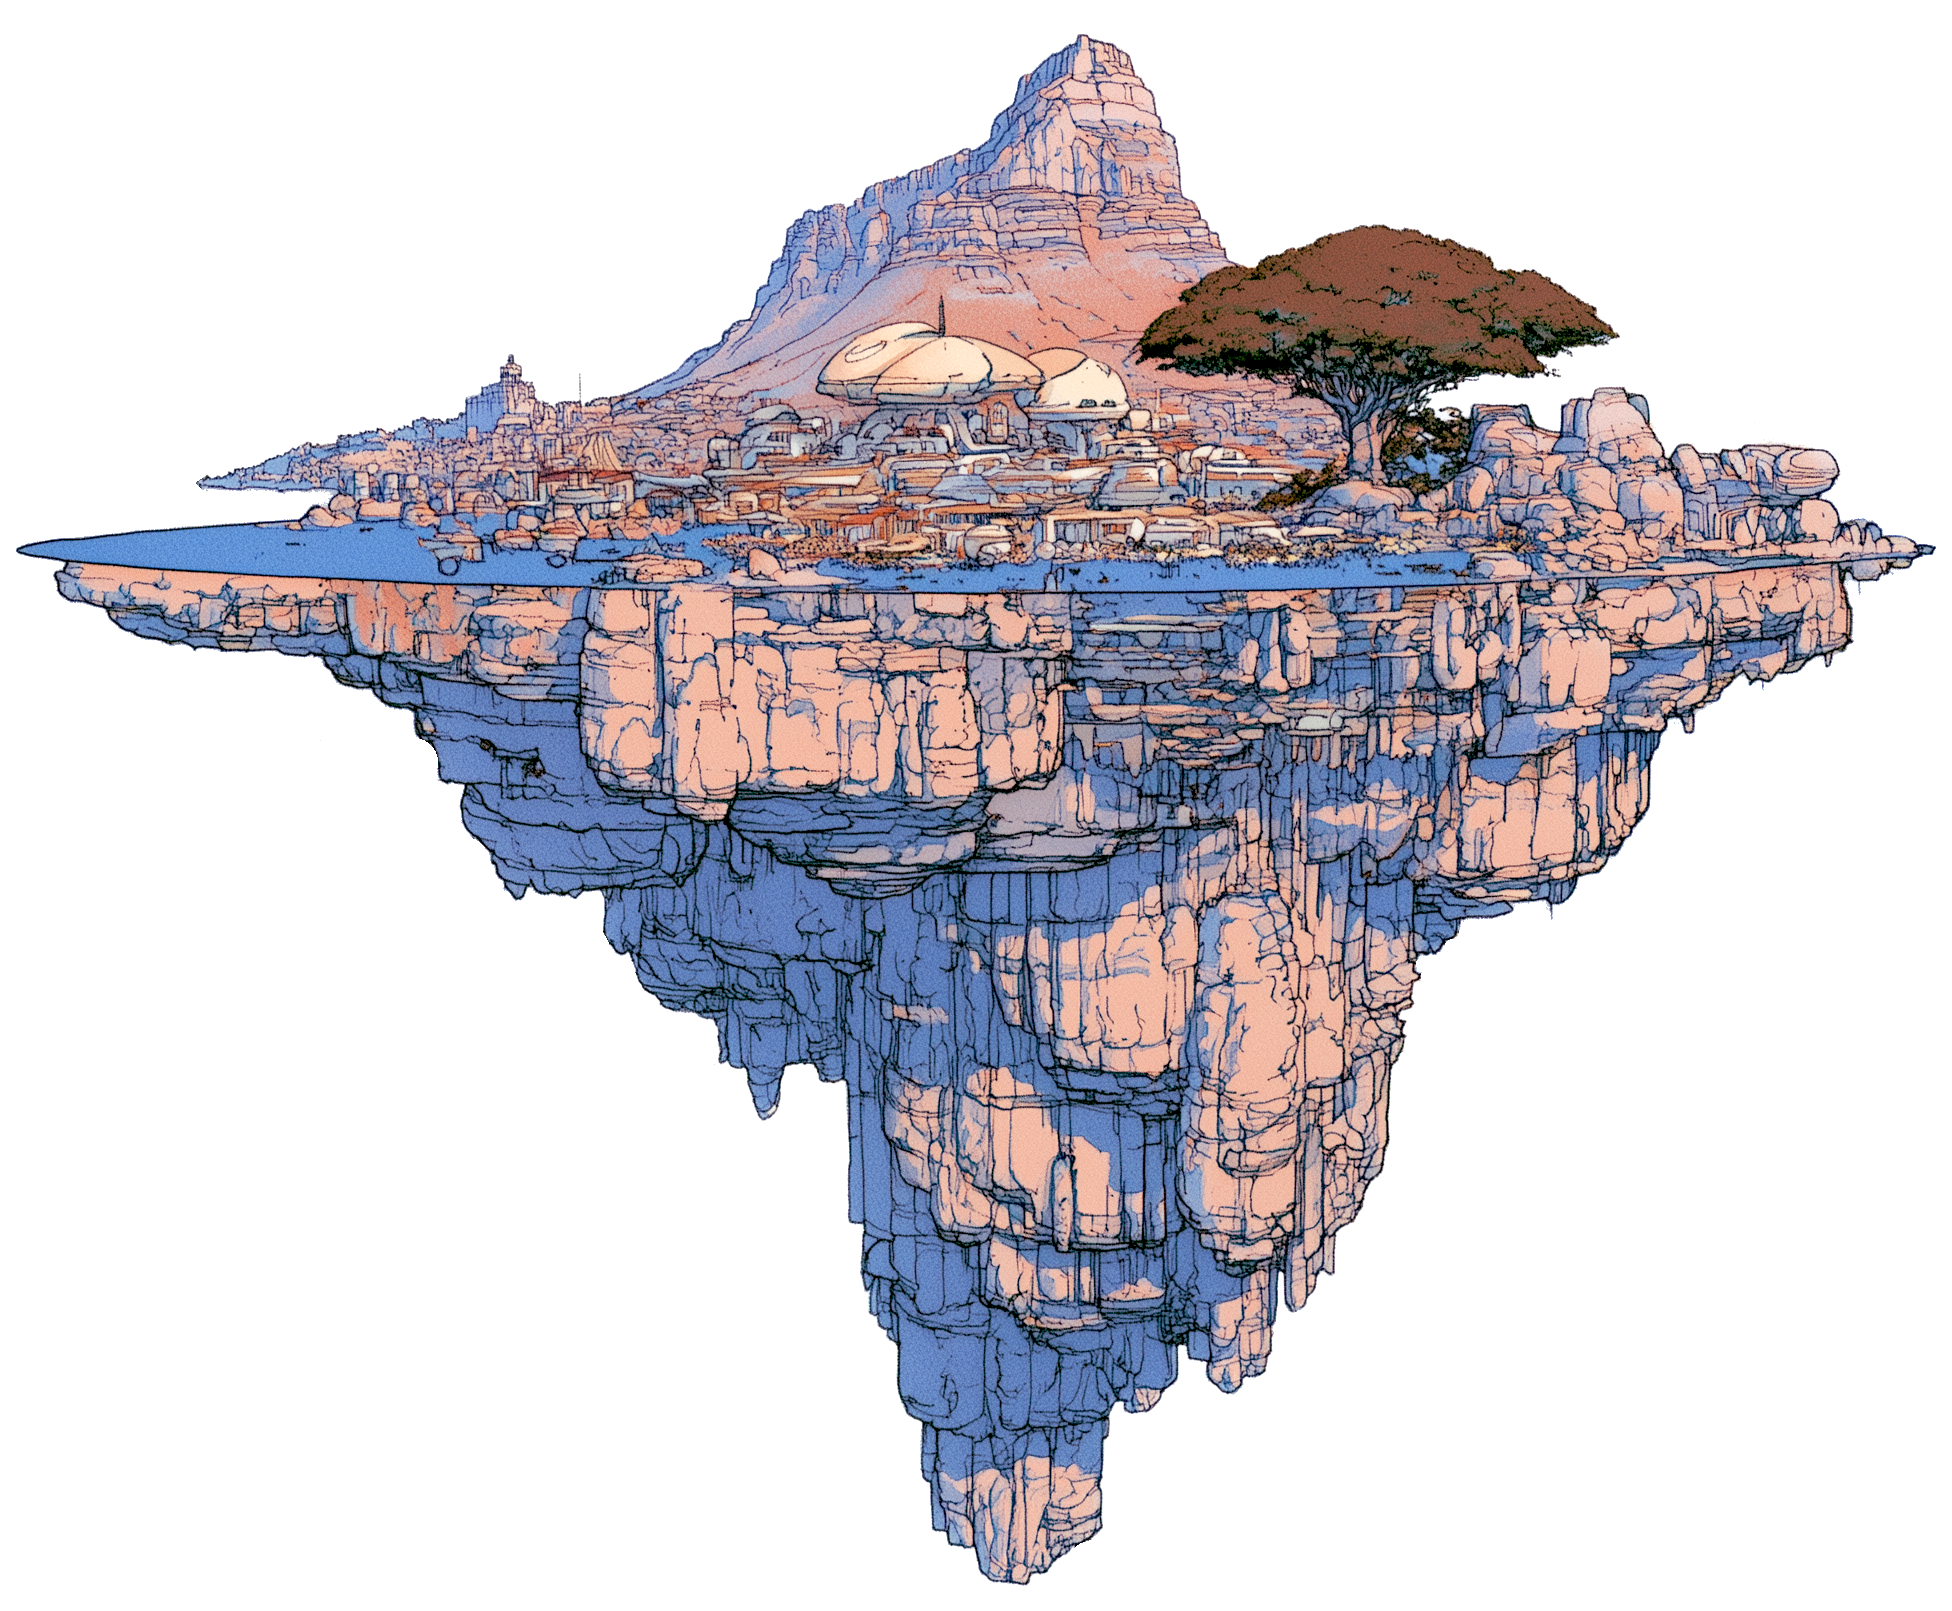
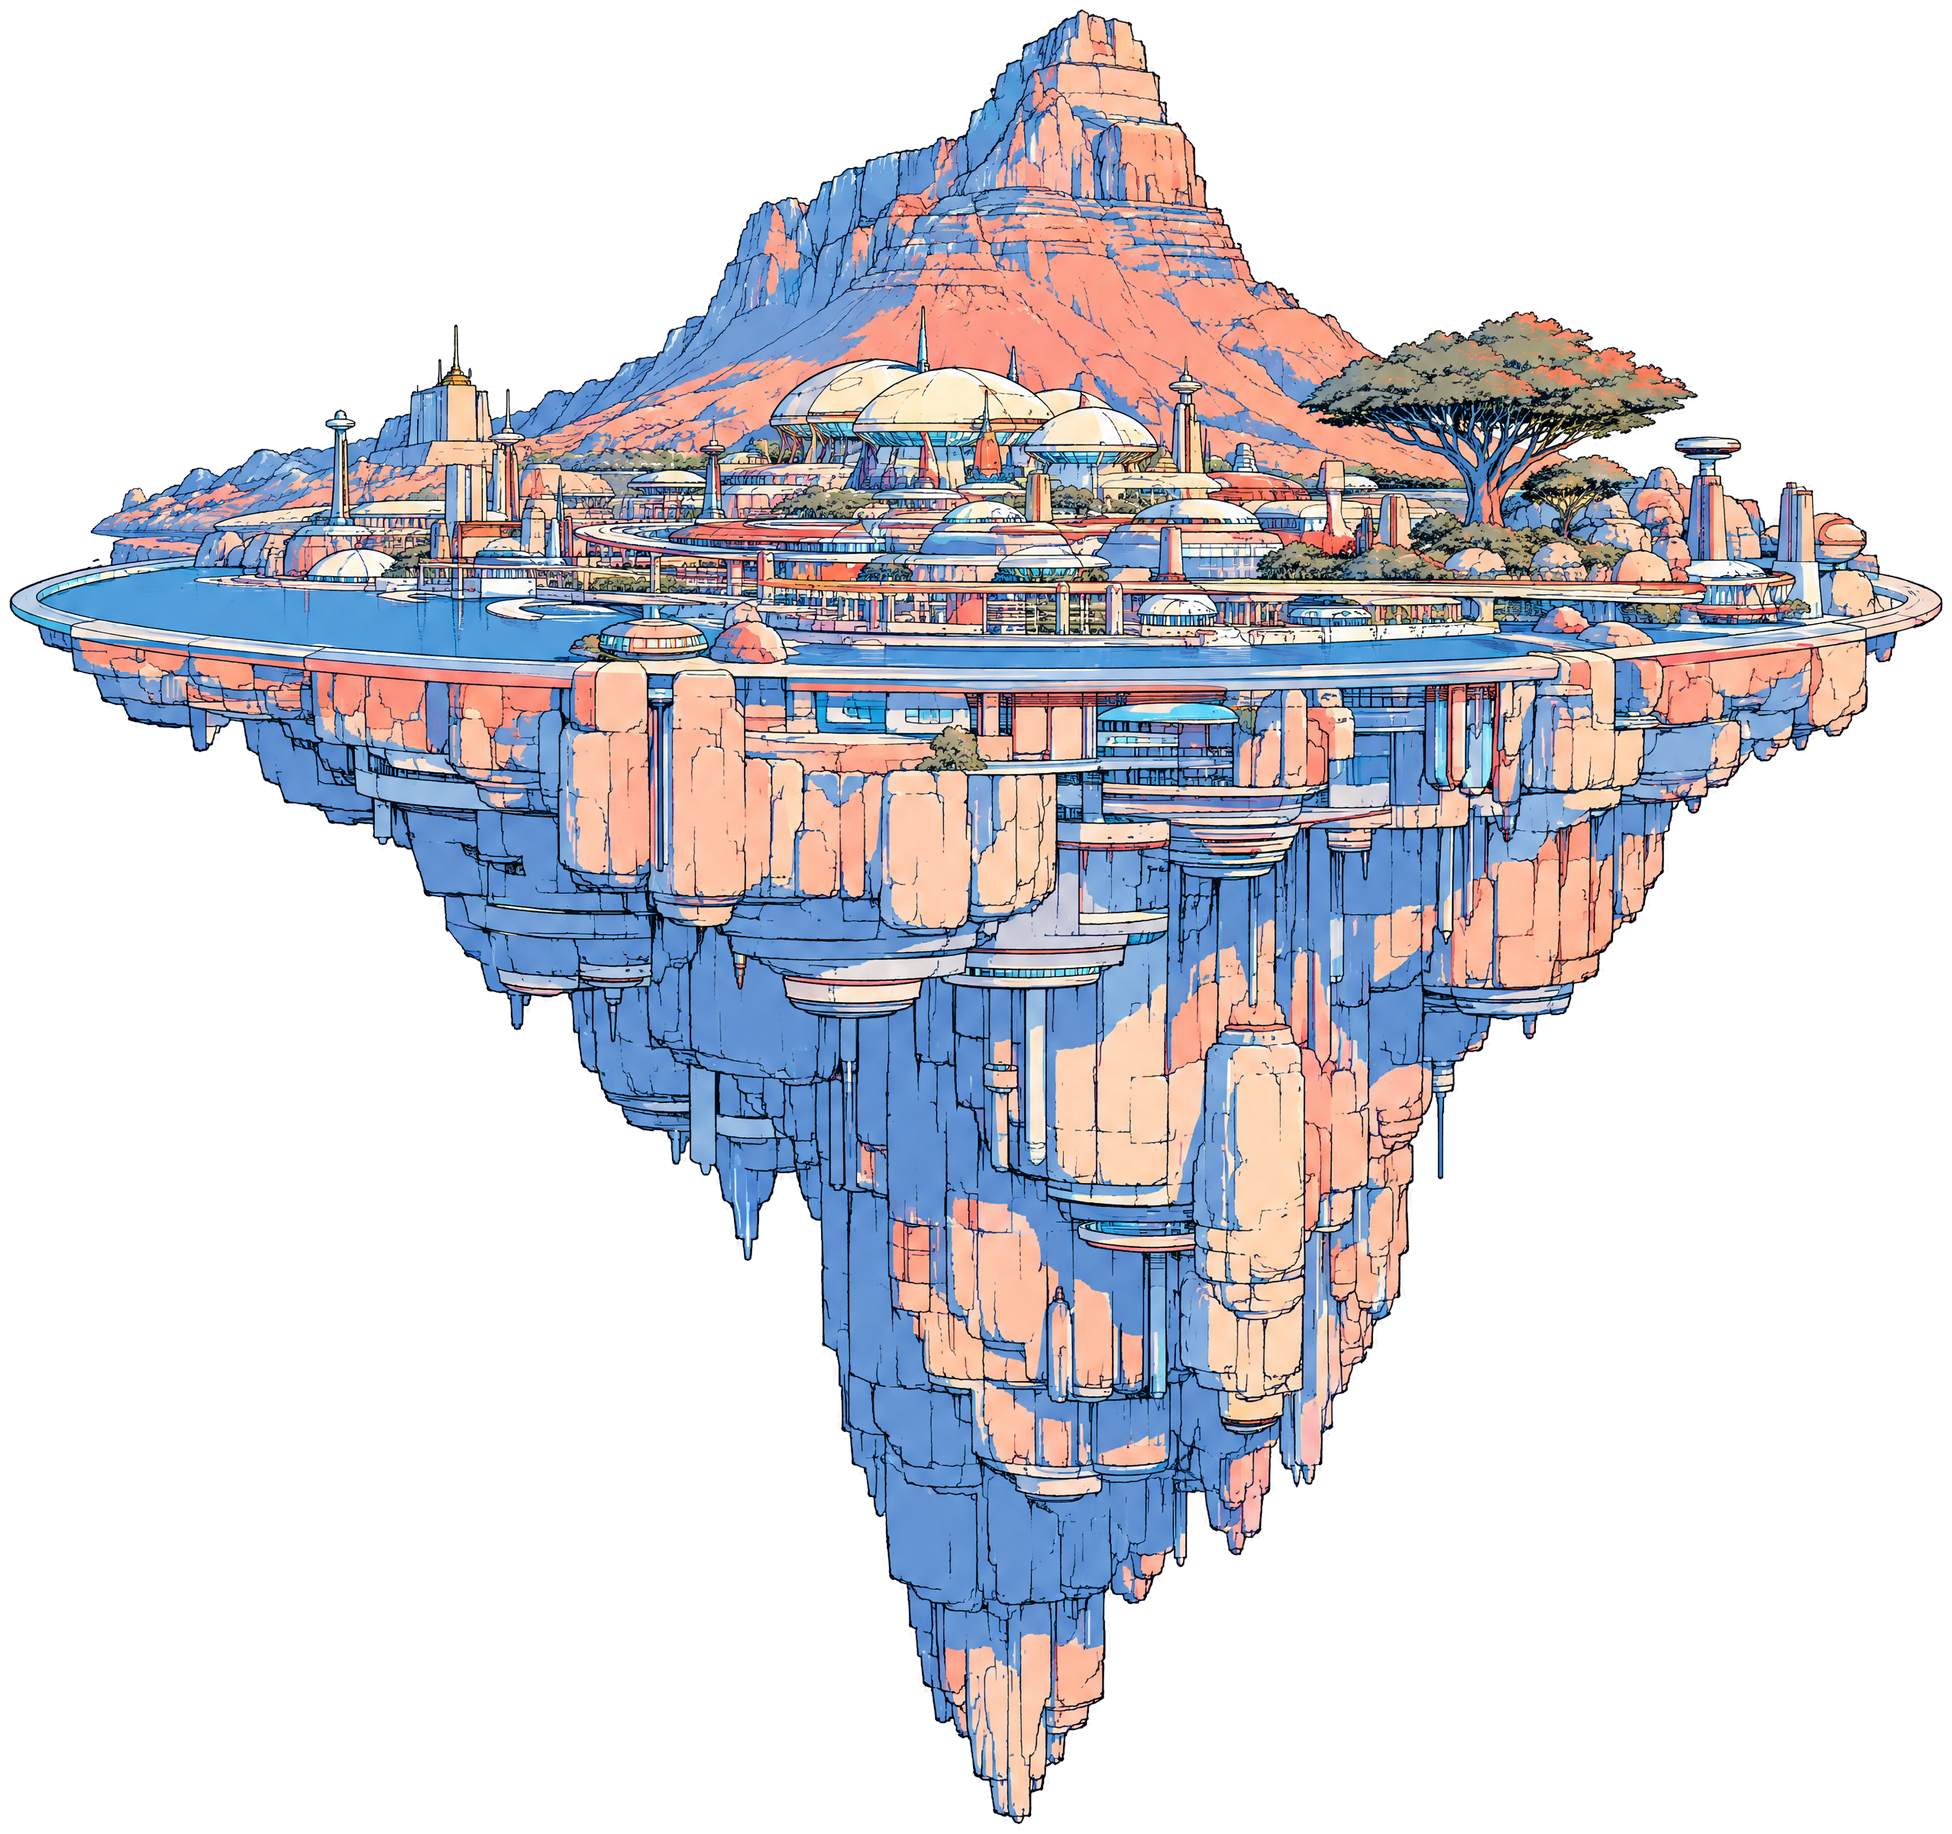
Replace landing hero illustration
New Cape Town floating-island artwork for the home hero. The source was
supplied on an opaque white ground; the exterior is flood-filled to
transparent from the corners so the illustration sits on the page colour
rather than in a white box, matching the previous asset. Trimmed to the
content bounding box and regenerated at the established sizes: png 1952px
wide as the fallback, webp 1200px as the served variant.

Hero width/height updated for the new 1.064 aspect to keep CLS at zero.

diff --git a/index.html b/index.html
@@ -75,8 +75,8 @@
       </div>
       <div class="hero__image">
         <picture>
-          <source srcset="assets/images/landing-illustration.webp" type="image/webp">
-          <img src="assets/images/landing-illustration.png?v=9bd77cae" width="1200" height="990" fetchpriority="high" decoding="async" alt="Illustration of a floating island representing Cape Town, rendered in a retro-futurist style" />
+          <source srcset="assets/images/landing-illustration.webp?v=d52cd67d" type="image/webp">
+          <img src="assets/images/landing-illustration.png?v=d52cd67d" width="1200" height="1127" fetchpriority="high" decoding="async" alt="Illustration of a floating island representing Cape Town, rendered in a retro-futurist style" />
         </picture>
       </div>
     </div>
